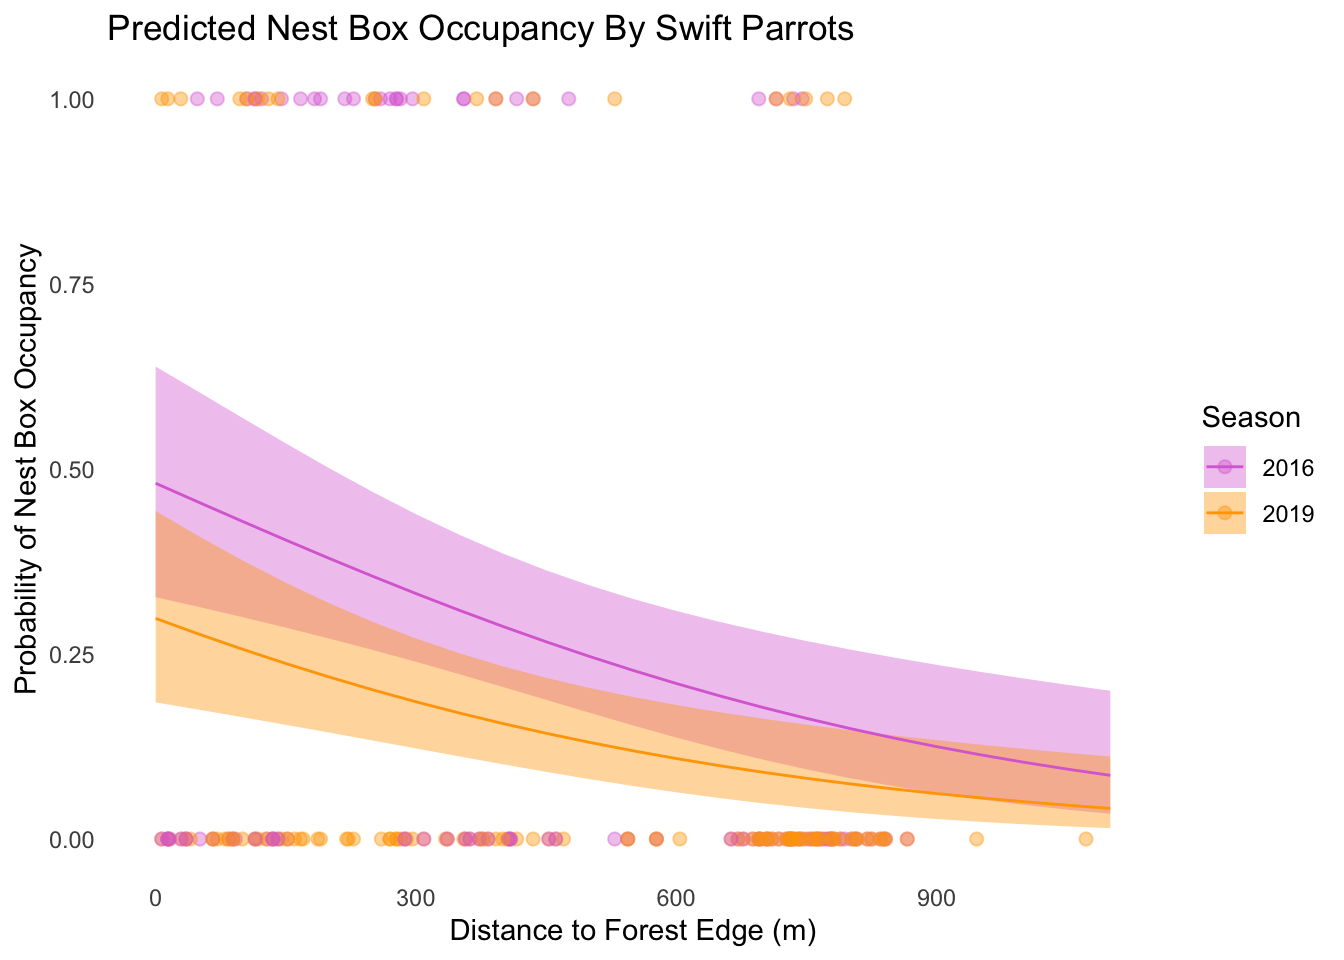
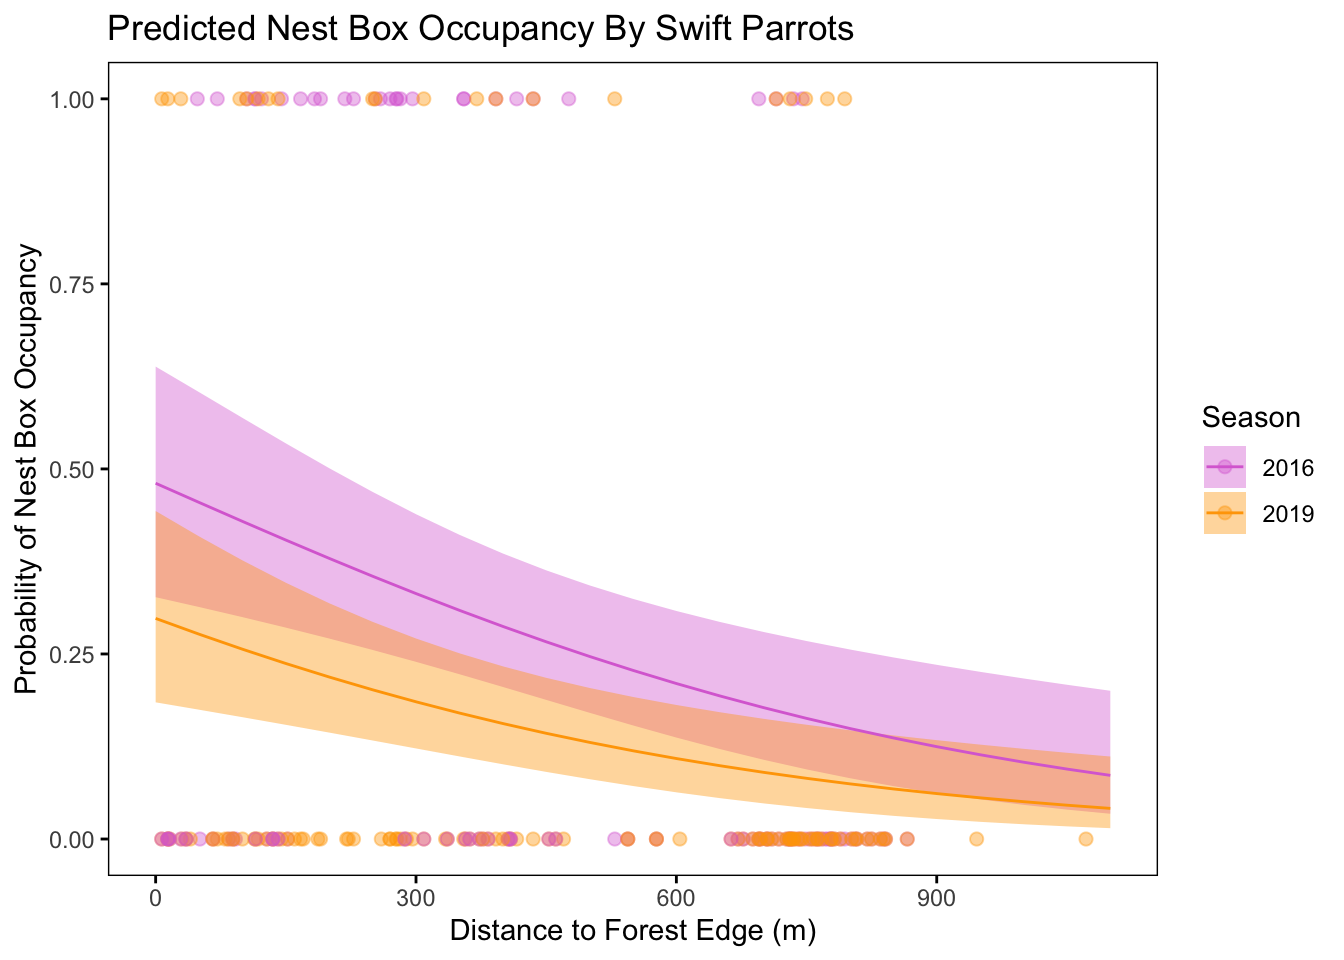
fix graph format for 3h

diff --git a/code/ENVS-193DS_spring-2025_final.html b/code/ENVS-193DS_spring-2025_final.html
@@ -236,11 +236,11 @@ window.Quarto = {
 <pre><code># A tibble: 5 × 3
   year  month mean_monthly_sst
   &lt;fct&gt; &lt;ord&gt;            &lt;dbl&gt;
-1 2018  Jun               15.5
-2 2022  Jan               13.9
-3 2021  Sep               17.1
-4 2020  Feb               14.7
-5 2022  Jun               16.2</code></pre>
+1 2018  Sep               18.2
+2 2021  Apr               13.1
+3 2023  Mar               12.8
+4 2021  Aug               17.7
+5 2023  Jul               16.3</code></pre>
 </div>
 <div class="sourceCode cell-code" id="cb4"><pre class="sourceCode r code-with-copy"><code class="sourceCode r"><span id="cb4-1"><a href="#cb4-1" aria-hidden="true" tabindex="-1"></a><span class="fu">str</span>(sst_clean) <span class="co"># display the structure of the dataset</span></span></code><button title="Copy to Clipboard" class="code-copy-button"><i class="bi"></i></button></pre></div>
 <div class="cell-output cell-output-stdout">
@@ -416,7 +416,7 @@ window.Quarto = {
 <h2 class="anchored" data-anchor-id="g.-select-the-best-model">g. Select the Best Model</h2>
 <div class="cell">
 <div class="sourceCode cell-code" id="cb12"><pre class="sourceCode r code-with-copy"><code class="sourceCode r"><span id="cb12-1"><a href="#cb12-1" aria-hidden="true" tabindex="-1"></a><span class="co"># compare AICc for the following models</span></span>
-<span id="cb12-2"><a href="#cb12-2" aria-hidden="true" tabindex="-1"></a><span class="fu">AICc</span>(model0,</span>
+<span id="cb12-2"><a href="#cb12-2" aria-hidden="true" tabindex="-1"></a><span class="fu">AICc</span>(model0, </span>
 <span id="cb12-3"><a href="#cb12-3" aria-hidden="true" tabindex="-1"></a>     model1,</span>
 <span id="cb12-4"><a href="#cb12-4" aria-hidden="true" tabindex="-1"></a>     model2,</span>
 <span id="cb12-5"><a href="#cb12-5" aria-hidden="true" tabindex="-1"></a>     model3) <span class="sc">|&gt;</span> </span>
@@ -477,7 +477,9 @@ model0  1 238.8318</code></pre>
 <span id="cb14-40"><a href="#cb14-40" aria-hidden="true" tabindex="-1"></a>       <span class="at">fill =</span> <span class="st">"Season"</span>) <span class="sc">+</span></span>
 <span id="cb14-41"><a href="#cb14-41" aria-hidden="true" tabindex="-1"></a>  <span class="co"># clean up theme</span></span>
 <span id="cb14-42"><a href="#cb14-42" aria-hidden="true" tabindex="-1"></a>  <span class="fu">theme_minimal</span>() <span class="sc">+</span></span>
-<span id="cb14-43"><a href="#cb14-43" aria-hidden="true" tabindex="-1"></a>  <span class="fu">theme</span>(<span class="at">panel.grid =</span> <span class="fu">element_blank</span>()) <span class="co"># remove gridlines</span></span></code><button title="Copy to Clipboard" class="code-copy-button"><i class="bi"></i></button></pre></div>
+<span id="cb14-43"><a href="#cb14-43" aria-hidden="true" tabindex="-1"></a>  <span class="fu">theme</span>(<span class="at">panel.background =</span> <span class="fu">element_rect</span>(<span class="at">fill =</span> <span class="st">"white"</span>, <span class="at">color =</span> <span class="st">"black"</span>), <span class="co"># white background with black border </span></span>
+<span id="cb14-44"><a href="#cb14-44" aria-hidden="true" tabindex="-1"></a>        <span class="at">panel.grid =</span> <span class="fu">element_blank</span>(), <span class="co"># remove gridlines</span></span>
+<span id="cb14-45"><a href="#cb14-45" aria-hidden="true" tabindex="-1"></a>        <span class="at">axis.ticks =</span> <span class="fu">element_line</span>(<span class="at">color =</span> <span class="st">"black"</span>)) <span class="co"># add tick marks</span></span></code><button title="Copy to Clipboard" class="code-copy-button"><i class="bi"></i></button></pre></div>
 <div class="cell-output-display">
 <div>
 <figure class="figure">
